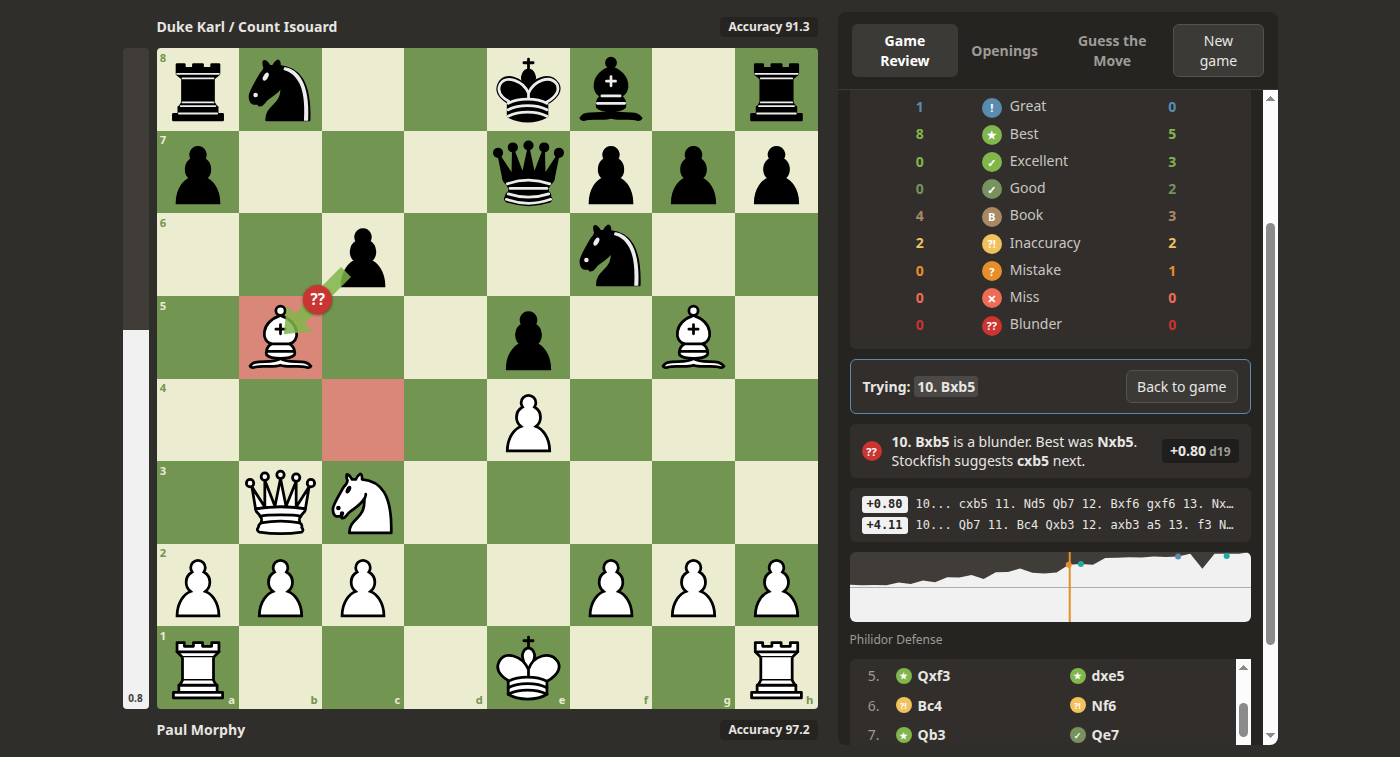
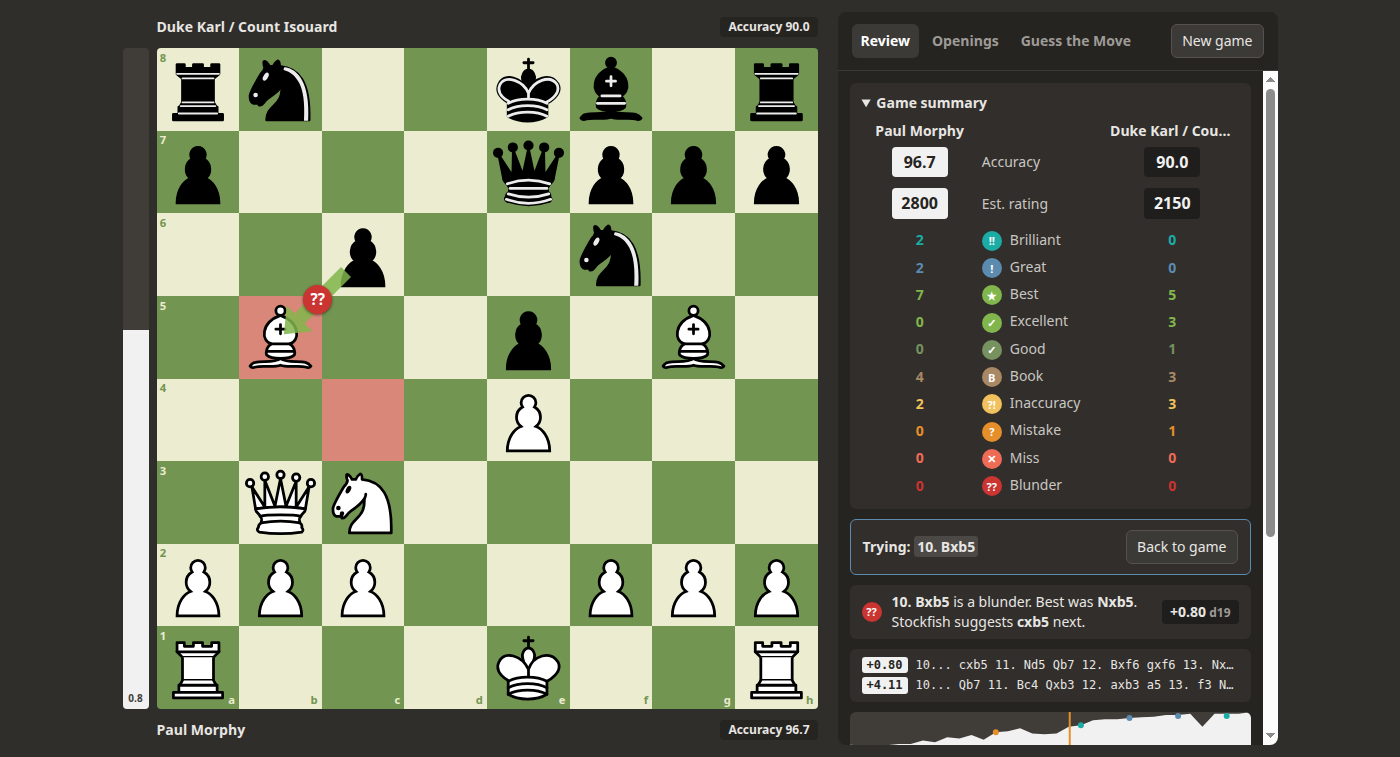
Make the layout work on phones
Pin the board at the top in portrait with the controls directly under
it, stop the header overflowing the screen, keep the page from jumping
when stepping through moves, and keep board and panel side by side in
landscape.

Generated with [Devin](https://devin.ai)

diff --git a/style.css b/style.css
@@ -117,16 +117,11 @@ textarea { width: 100%; height: 110px; resize: vertical; font-family: ui-monospa
 .nav { display: flex; gap: 6px; }
 .nav button { flex: 1; background: #3c3a37; border-color: #3c3a37; font-size: 16px; padding: 8px; }
 
-@media (max-width: 900px) {
-  .app { flex-direction: column; align-items: center; height: auto; --size: min(calc(100vw - 60px), 640px); }
-  .panel { width: 100%; max-width: 700px; }
-  #moves { max-height: 300px; }
-}
 
 .sq img { touch-action: none; cursor: grab; }
 .sq .dot { position: absolute; inset: 35%; border-radius: 50%; background: rgba(0,0,0,.22); pointer-events: none; z-index: 1; }
 .sq .dot.cap { inset: 4%; background: none; border: .9cqw solid rgba(0,0,0,.22); }
-#board { touch-action: none; }
+#board { touch-action: pan-y; }
 #explore { display: flex; gap: 10px; align-items: center; border: 1px solid #5c8bb0; }
 #explore-line { flex: 1; }
 #explore .xm { cursor: pointer; padding: 1px 3px; border-radius: 3px; }
@@ -173,3 +168,41 @@ textarea { width: 100%; height: 110px; resize: vertical; font-family: ui-monospa
 #g-coach { display: flex; gap: 10px; align-items: center; min-height: 54px; }
 #g-coach .badge { width: 20px; height: 20px; font-size: 11px; }
 #g-coach .eval { margin-left: auto; background: #1f1e1c; border-radius: 4px; padding: 2px 8px; font-weight: 700; white-space: nowrap; }
+
+/* Phones and small tablets, portrait: board pinned on top, panel scrolls underneath. */
+@media (max-width: 900px) and (orientation: portrait) {
+  html { touch-action: manipulation; }
+  .app { flex-direction: column; align-items: center; height: auto; gap: 6px; padding: 4px 6px 12px; --size: min(calc(100vw - 30px), 56vh, 640px); }
+  .board-col { position: sticky; top: 0; z-index: 20; background: #302e2b; gap: 2px; padding-bottom: 4px; width: 100%; align-items: center; }
+  .board-wrap { gap: 4px; }
+  #evalbar { width: 14px; }
+  #evalbar-text { display: none; }
+  .player { height: 22px; font-size: 13px; padding-left: 18px; width: calc(var(--size) + 18px); }
+  .panel { width: 100%; max-width: 700px; overflow: visible; }
+  .panel-head { padding: 6px 8px; gap: 6px; flex-wrap: wrap; }
+  .tab { padding: 6px 7px; font-size: 13px; white-space: nowrap; }
+  #btn-new { padding: 5px 8px; font-size: 12px; white-space: nowrap; }
+  .view { overflow: visible; padding: 8px; gap: 8px; }
+  input, select, textarea { font-size: 16px; }
+  #games { max-height: none; }
+  #moves { max-height: 240px; flex: none; }
+  #view-review > * { order: 5; }
+  #progress-box { order: 0; }
+  #explore { order: 1; }
+  #coach { order: 2; }
+  #view-review .nav { order: 3; }
+  #lines { order: 4; }
+  #summary { order: 9; }
+  .nav button { padding: 10px 8px; }
+}
+
+/* Phones in landscape: keep board and panel side by side. */
+@media (max-width: 900px) and (orientation: landscape) {
+  .app { gap: 10px; padding: 6px; height: 100dvh; --size: min(calc(100dvh - 68px), calc(50vw - 50px)); }
+  .player { height: 22px; font-size: 13px; }
+  .panel { width: auto; flex: 1; min-width: 0; }
+  .tab { padding: 6px 7px; font-size: 13px; white-space: nowrap; }
+  input, select, textarea { font-size: 16px; }
+}
+
+#moves { position: relative; }

diff --git a/app.js b/app.js
@@ -622,7 +622,11 @@ function render() {
   document.querySelectorAll('#moves .mv').forEach(el => {
     const on = +el.dataset.ply === cur;
     el.classList.toggle('cur', on);
-    if (on) el.scrollIntoView({ block: 'nearest' });
+    if (!on) return;
+    // Scroll only the move list, never the page.
+    const box = $('#moves'), top = el.offsetTop, bottom = top + el.offsetHeight;
+    if (top < box.scrollTop) box.scrollTop = top;
+    else if (bottom > box.scrollTop + box.clientHeight) box.scrollTop = bottom - box.clientHeight;
   });
   if (cur === 0) $('#moves').scrollTop = 0;
 }

diff --git a/index.html b/index.html
@@ -22,7 +22,7 @@
 
   <aside class="panel">
     <header class="panel-head">
-      <div class="tabs"><button class="tab on" data-mode="review">Game Review</button><button class="tab" data-mode="openings">Openings</button><button class="tab" data-mode="guess">Guess the Move</button></div>
+      <div class="tabs"><button class="tab on" data-mode="review">Review</button><button class="tab" data-mode="openings">Openings</button><button class="tab" data-mode="guess">Guess the Move</button></div>
       <button id="btn-new" class="ghost" hidden>New game</button>
     </header>
 
